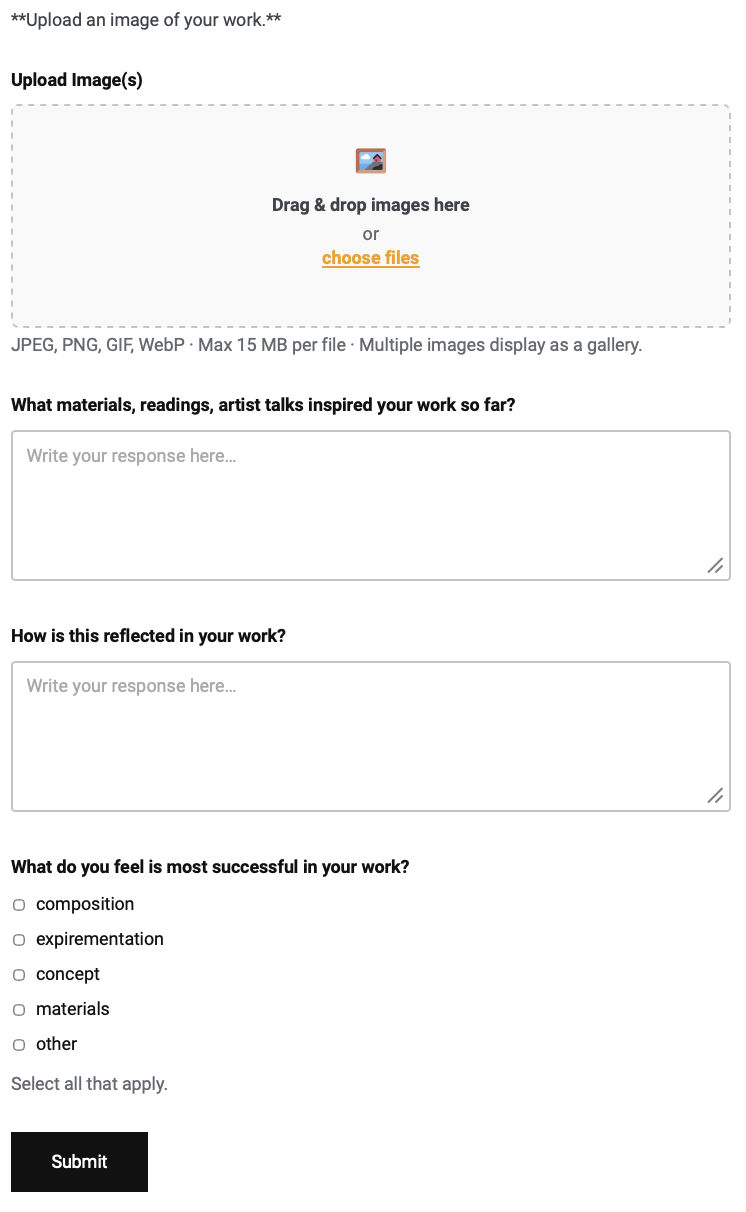
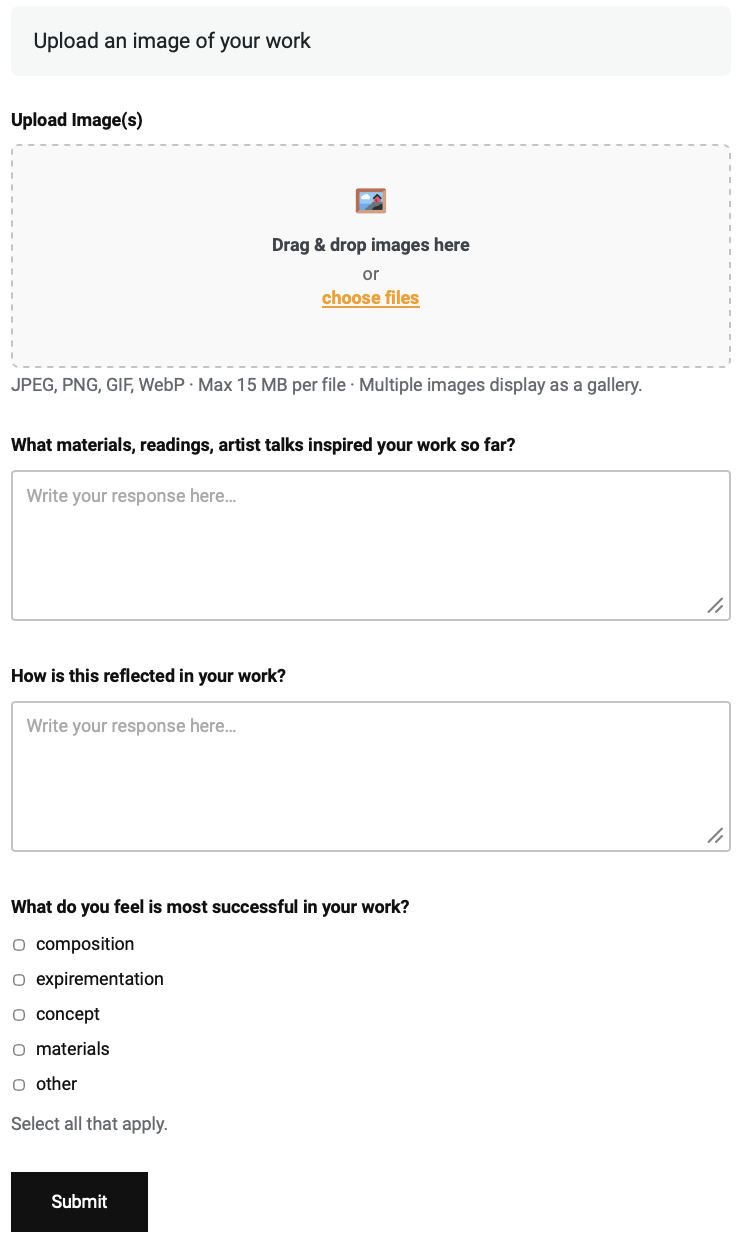
feat: style intro text as a card; refresh student screenshot; roadmap
- Render intro text in a soft grey card so it reads above the form
  instead of being out-ranked by the bolder field labels
- Replace student-view screenshot with current rendering
- Add ROADMAP entry: block-based rendering and instructor-controlled
  styling (dynamic block, hybrid field shortcodes, design panel)

diff --git a/inc/reflection-form.php b/inc/reflection-form.php
@@ -1766,7 +1766,7 @@ function reflsub_render_sections_form( $sections, $page_id, $allow_resub ) {
 
     <style>
         .reflection-form-wrap { max-width: 720px; margin: 2rem 0; }
-        .reflection-intro { margin-bottom: 1.75rem; font-size: 1rem; line-height: 1.7; color: #3c434a; }
+        .reflection-intro { margin-bottom: 1.75rem; padding: 1rem 1.25rem; font-size: 1.325rem; line-height: 1.65; color: #1d2327; background: #f6f7f7; border-radius: 8px; }
         .reflection-intro p { margin: 0 0 0.75rem; }
         .reflection-intro p:last-child { margin-bottom: 0; }
         .reflection-form .reflection-field { margin-bottom: 2rem; }

diff --git a/ROADMAP.md b/ROADMAP.md
@@ -54,6 +54,46 @@ Correct split:
 
 ---
 
+## Block-Based Rendering & Instructor-Controlled Styling
+
+Today the activity page renders via the `[reflection_form]` shortcode, with the section
+schema stored as JSON in `_reflsub_sections` post meta. Submissions, by contrast, are
+already written as native Gutenberg block markup. Three related directions, in increasing
+ambition:
+
+### Shortcode → dynamic block (low–medium effort)
+Register `activity-builder/form` as a dynamic block with a PHP `render_callback` that calls
+the same render function the shortcode uses. Benefits: discoverable in the block inserter,
+shows as a labelled block with a placeholder preview on the canvas, future-proof for block
+themes / FSE. Honest limit: it's still server-rendered, so the editor shows a placeholder —
+it does **not** make the live form or the sections block-editable. Mostly a discoverability /
+"feels native" upgrade, not a structural change.
+
+### Hybrid composition: static parts as blocks, inputs as field shortcodes (high effort)
+Let instructors arrange the *static* scaffolding — intro text, headings, prompt copy,
+images — as ordinary Gutenberg blocks in the page, and drop small per-field tokens only
+where a live input belongs (e.g. `[reflection_field id="3"]` or a dedicated field block).
+The instructor then controls layout and design with the native editor; only the interactive,
+per-user fields stay server-rendered.
+- Feasible in principle (this is how some form plugins work).
+- Cost: gives up the single-source-of-truth schema and the unified builder. The submission
+  handler would have to *discover* which fields exist by scanning page content rather than
+  reading one JSON blob — more moving parts, more validation, harder migration.
+- Decision to make: is instructor layout freedom worth losing the constrained, typed builder?
+
+### Advanced "design" panel for instructors (medium–high effort)
+Rather than instructors editing plugin CSS, give them a styling panel — ideally a split
+screen: controls on one side, live placeholder preview on the other, updating in real time.
+- Store overrides in an **option / post meta**, output as a scoped `<style>` block on render.
+  Never write to the plugin's own CSS files — those are overwritten on update.
+- Keep plugin defaults intact so "Reset to defaults" is trivial (just clear the overrides).
+- Could be global (site-wide theme) and/or per-page.
+
+This is the more likely long-term answer to "let instructors control the look" without the
+re-architecture cost of the hybrid approach — and the two could combine later.
+
+---
+
 ## ACF Dependency Removal
 
 The plugin is already in a transitional state — pages created via the builder store all
